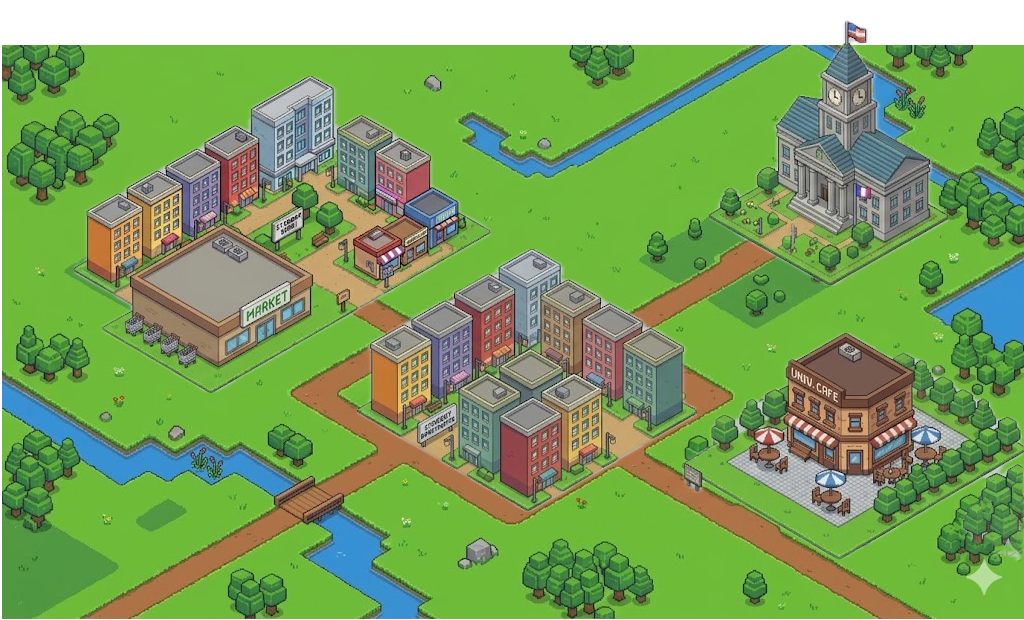
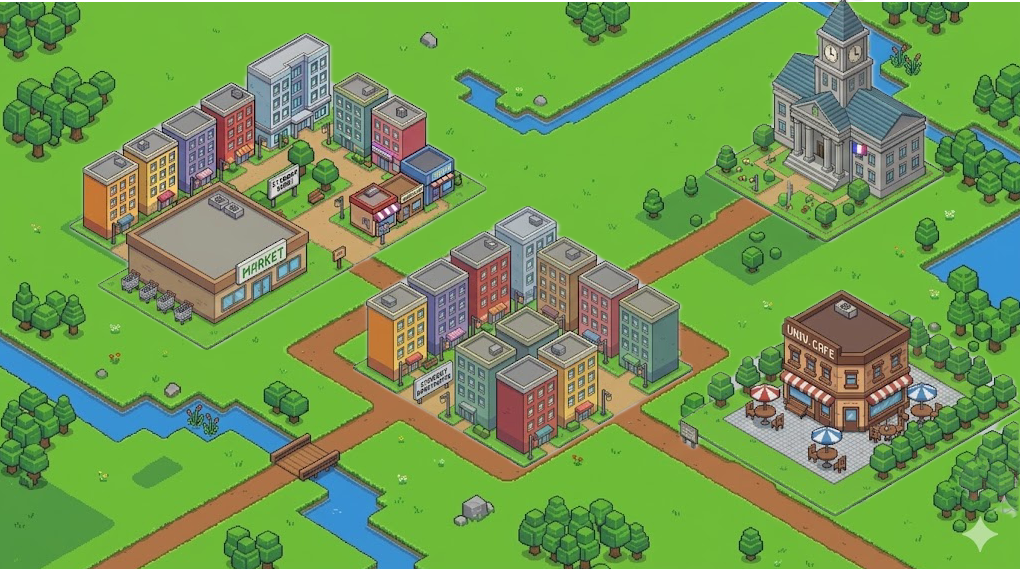
chore: reset and prepare fresh UI upgrade branch

diff --git a/components/BudgetingCityView.tsx b/components/BudgetingCityView.tsx
@@ -312,7 +312,7 @@ export default function BudgetingCityView() {
             <img
               src="/map/budgeting-city.png"
               alt="FinQuest Budgeting City"
-              className="absolute w-full h-full object-cover select-none z-0"
+              className="w-full h-full object-cover select-none"
               draggable={false}
               style={{ imageRendering: 'pixelated' }}
               onError={(e) => { e.currentTarget.style.display = 'none'; }}
@@ -325,7 +325,7 @@ export default function BudgetingCityView() {
             </button>
             {/* Hotspots */}
             <div
-              className="absolute cursor-pointer hover:-translate-y-1 rounded-lg border-2 border-transparent hover:border-yellow-400/50 transition-all flex items-end justify-center pb-1 z-10"
+              className="absolute cursor-pointer hover:bg-yellow-400/20 rounded-lg border-2 border-transparent hover:border-yellow-400/50 transition-all flex items-end justify-center pb-1 z-10"
               style={{ left: '48%', top: '20%', width: '15%', height: '20%' }}
               onClick={() => openDorms()}
             >
@@ -333,7 +333,7 @@ export default function BudgetingCityView() {
             </div>
             {/* MARKET */}
             <div
-              className="absolute cursor-pointer hover:-translate-y-1 rounded-lg border-2 border-transparent hover:border-yellow-400/50 transition-all flex items-end justify-center pb-1 z-10"
+              className="absolute cursor-pointer hover:bg-yellow-400/20 rounded-lg border-2 border-transparent hover:border-yellow-400/50 transition-all flex items-end justify-center pb-1 z-10"
               style={{ left: '8%', top: '30%', width: '22%', height: '22%' }}
               onClick={() => setModal('market')}
             >
@@ -341,7 +341,7 @@ export default function BudgetingCityView() {
             </div>
             {/* CAFE */}
             <div
-              className="absolute cursor-pointer hover:-translate-y-1 rounded-lg border-2 border-transparent hover:border-yellow-400/50 transition-all flex items-end justify-center pb-1 z-10"
+              className="absolute cursor-pointer hover:bg-yellow-400/20 rounded-lg border-2 border-transparent hover:border-yellow-400/50 transition-all flex items-end justify-center pb-1 z-10"
               style={{ left: '55%', top: '42%', width: '18%', height: '22%' }}
               onClick={() => openCafe()}
             >
@@ -349,7 +349,7 @@ export default function BudgetingCityView() {
             </div>
             {/* CITY HALL */}
             <div
-              className="absolute cursor-pointer hover:-translate-y-1 rounded-lg border-2 border-transparent hover:border-yellow-400/50 transition-all flex items-end justify-center pb-1 z-10"
+              className="absolute cursor-pointer hover:bg-yellow-400/20 rounded-lg border-2 border-transparent hover:border-yellow-400/50 transition-all flex items-end justify-center pb-1 z-10"
               style={{ left: '55%', top: '5%', width: '18%', height: '18%' }}
               onClick={() => openQuiz()}
             >
@@ -357,7 +357,7 @@ export default function BudgetingCityView() {
             </div>
             {/* BUDGET TETRIS */}
             <div
-              className="absolute cursor-pointer hover:-translate-y-1 rounded-lg border-2 border-transparent hover:border-yellow-400/50 transition-all flex items-end justify-center pb-1 z-10"
+              className="absolute cursor-pointer hover:bg-yellow-400/20 rounded-lg border-2 border-transparent hover:border-yellow-400/50 transition-all flex items-end justify-center pb-1 z-10"
               style={{ left: '25%', top: '55%', width: '15%', height: '18%' }}
               onClick={() => setModal('tetris')}
             >

diff --git a/components/MainGameView.tsx b/components/MainGameView.tsx
@@ -414,34 +414,40 @@ export default function MainGameView() {
         <main className="flex-1 relative min-h-[500px] bg-[#2d5a2d] overflow-hidden">
           <div className="relative w-full h-full">
             <img
-              src="/assets/background.jpg"
+              src="/map/world-map.png"
               alt="FinQuest World Map"
-              className="absolute w-full h-full object-cover select-none z-0"
+              className="w-full h-full object-cover select-none"
               draggable={false}
               style={{ imageRendering: 'pixelated' }}
               onError={(e) => { e.currentTarget.style.display = 'none'; }}
             />
-            {/* Clickable hotspots with building images */}
+            {/* Clickable hotspots with building names */}
             <div
-              className="absolute cursor-pointer hover:-translate-y-1 transition-transform duration-300 z-10 flex items-end justify-center mix-blend-multiply"
+              className="absolute cursor-pointer hover:bg-yellow-400/15 rounded-xl border-2 border-transparent hover:border-yellow-400/40 transition-all duration-200 flex items-end justify-center pb-2"
               style={{ left: '12%', top: '42%', width: '20%', height: '28%' }}
               onClick={openBudgetingCity}
             >
-              <img src="/assets/budgeting.png" alt="Budgeting City" className="w-full h-full object-contain" onError={(e) => { e.currentTarget.style.display = 'none'; }} />
+              <span className="font-pixel text-[9px] text-white bg-black/60 px-2 py-1 rounded opacity-0 hover:opacity-100 transition-opacity">
+                Budgeting City
+              </span>
             </div>
             <div
-              className="absolute cursor-pointer hover:-translate-y-1 transition-transform duration-300 z-10 opacity-60 mix-blend-multiply"
+              className="absolute cursor-pointer hover:bg-yellow-400/10 rounded-xl border-2 border-transparent hover:border-yellow-400/20 transition-all duration-200 opacity-60"
               style={{ left: '55%', top: '8%', width: '22%', height: '35%' }}
               onClick={() => showToast('🔒 Complete Budgeting City to unlock Investment Tower!')}
             >
-              <img src="/assets/mainasset.jpg" alt="Investment Tower" className="w-full h-full object-contain mix-blend-darken" onError={(e) => { e.currentTarget.style.display = 'none'; }} />
             </div>
             <div
-              className="absolute cursor-pointer hover:-translate-y-1 transition-transform duration-300 z-10 mix-blend-multiply"
+              className="absolute cursor-pointer hover:bg-yellow-400/15 rounded-xl border-2 border-transparent hover:border-yellow-400/40 transition-all duration-200"
               style={{ left: '35%', top: '28%', width: '18%', height: '22%' }}
               onClick={openQuiz}
             >
-               <img src="/assets/budgetasset.png" alt="City Hall" className="w-full h-full object-contain" onError={(e) => { e.currentTarget.style.display = 'none'; }} />
+            </div>
+            <div
+              className="absolute cursor-pointer hover:bg-yellow-400/10 rounded-xl opacity-60"
+              style={{ left: '60%', top: '55%', width: '20%', height: '28%' }}
+              onClick={() => showToast('🔒 Complete Budgeting City to unlock Loan Bank!')}
+            >
             </div>
           </div>
 

diff --git a/components/GameView.tsx b/components/GameView.tsx
@@ -503,6 +503,9 @@ export default function GameView() {
   // ── GAME SCREEN ────────────────────────────────────────────────────────────
   return (
     <div className="fixed inset-0 flex flex-col bg-[#16213e] overflow-hidden">
+      {/* ── Aryan Intro (Shows Once) ── */}
+      {showAryanIntro && <AryanIntro onClose={() => setShowAryanIntro(false)} />}
+
       <div className="flex-1 flex min-h-0">
         <QuestSidebar
           entries={sidebarEntries}
@@ -601,7 +604,7 @@ export default function GameView() {
             {/* Title — top center */}
             <div className="absolute top-4 left-1/2 -translate-x-1/2 z-20 pointer-events-none">
               <div
-                className="font-pixel text-2xl text-white"
+                className="font-pixel text-3xl sm:text-4xl text-white"
                 style={{
                   textShadow:
                     '3px 3px 0 #000, -1px -1px 0 #000, 1px -1px 0 #000, -1px 1px 0 #000, 1px 1px 0 #000',
@@ -774,6 +777,30 @@ export default function GameView() {
           Back button returns to budgeting city submap
       ══════════════════════════════════════════════════════════════════════ */}
 
+      {/* Active Top-Level Games (Cafe, Quiz) */}
+      {activeGame === 'cafe' && (
+        <CafeGame
+          onClose={() => setActiveGame(null)}
+          onComplete={(xpEarned) => {
+            setState((s) => ({ ...s, xp: s.xp + xpEarned }));
+            showToast(`+${xpEarned} XP earned in the Café! ☕`);
+          }}
+        />
+      )}
+      {activeGame === 'quiz' && (
+        <QuizGame
+          onClose={() => setActiveGame(null)}
+          onComplete={(res) => {
+            setState((s) => ({
+              ...s,
+              xp: s.xp + res.xpEarned,
+              gold: s.gold + res.goldEarned,
+            }));
+            showToast(`+${res.xpEarned} XP, +₹${res.goldEarned} earned in Quiz! 🧠`);
+          }}
+        />
+      )}
+
       {/* Modal: Dorms (AI scenario) */}
       {modal === 'dorms' && (
         <div
@@ -869,6 +896,24 @@ export default function GameView() {
             </div>
           </div>
         </div>
+      )}
+
+      {/* Modal: BudgetGame (Market) */}
+      {modal === 'market' && (
+        <BudgetGame
+          onClose={() => setModal('budgeting-city')}
+          onComplete={(score, xpEarned, goldEarned) => {
+            setState((s) => ({
+              ...s,
+              xp: s.xp + xpEarned,
+              gold: s.gold + goldEarned,
+              budgetProgress: Math.min(100, s.budgetProgress + 34),
+            }));
+            showToast(`+${xpEarned} XP, +₹${goldEarned} earned in the Market! 🛒`);
+            markQuestStep('q-budget-basics', 1);
+            setModal('budgeting-city');
+          }}
+        />
       )}
 
       {/* Modal: Budget Tetris */}
